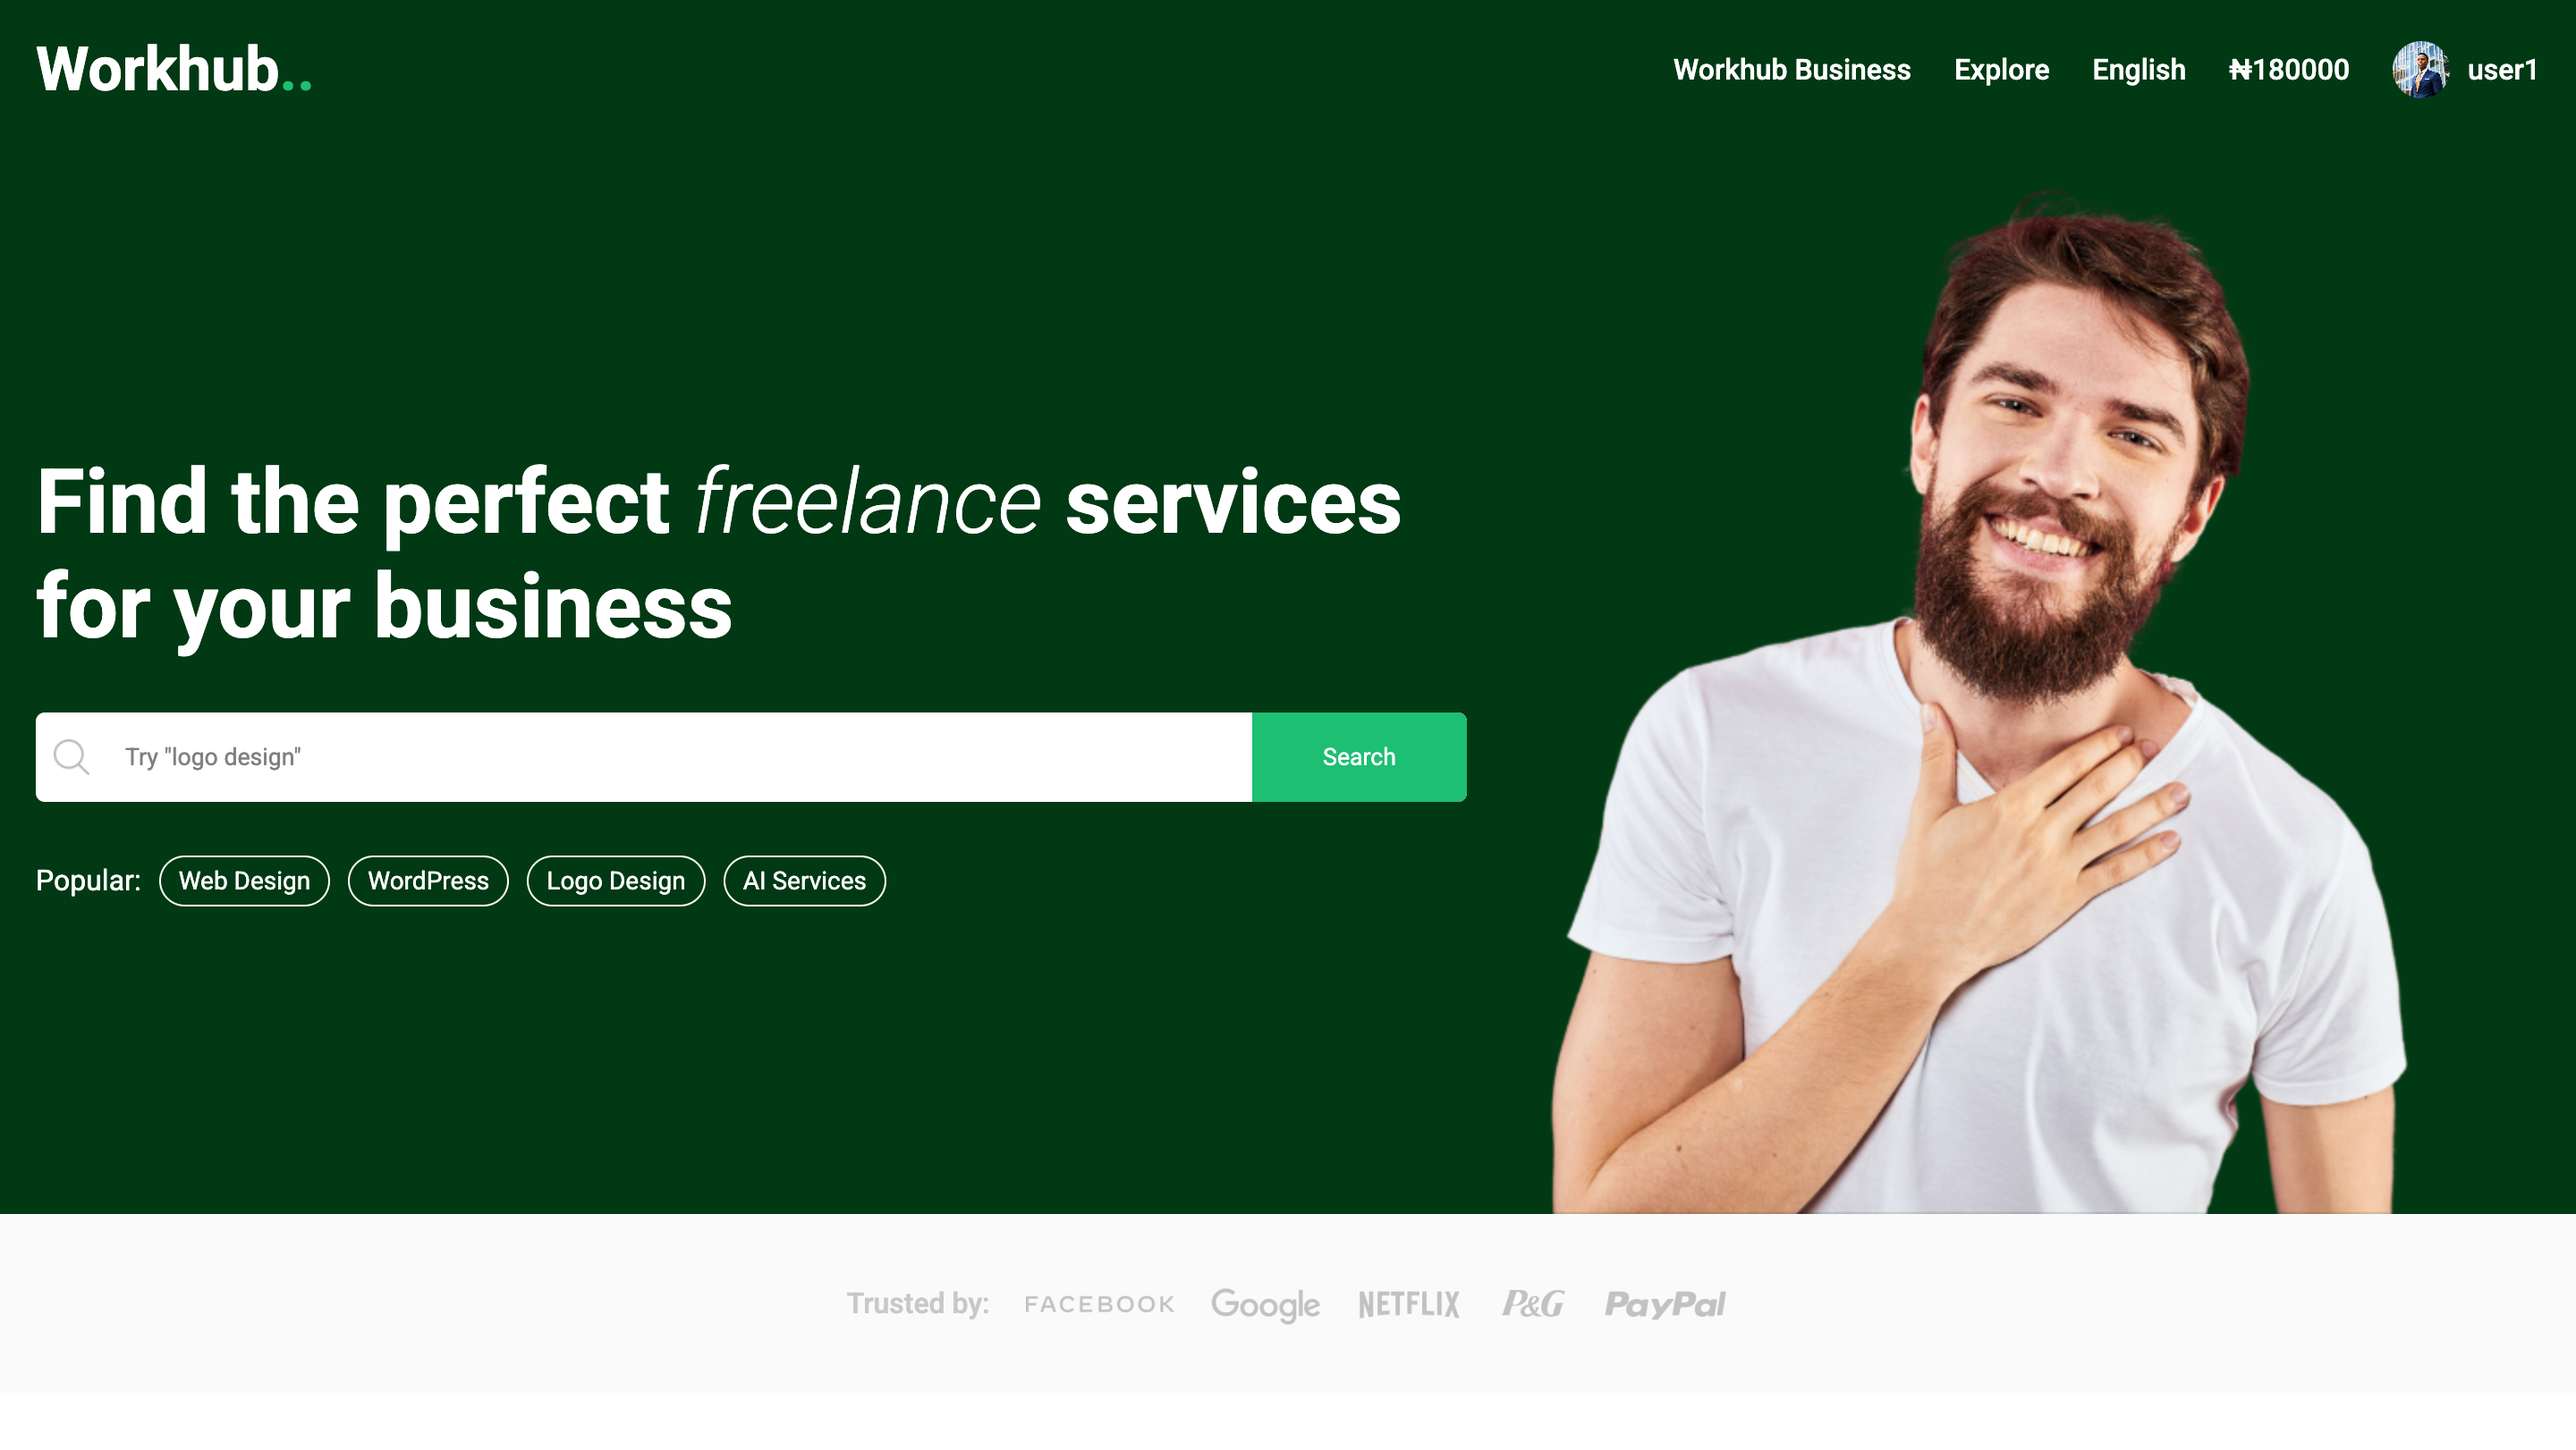
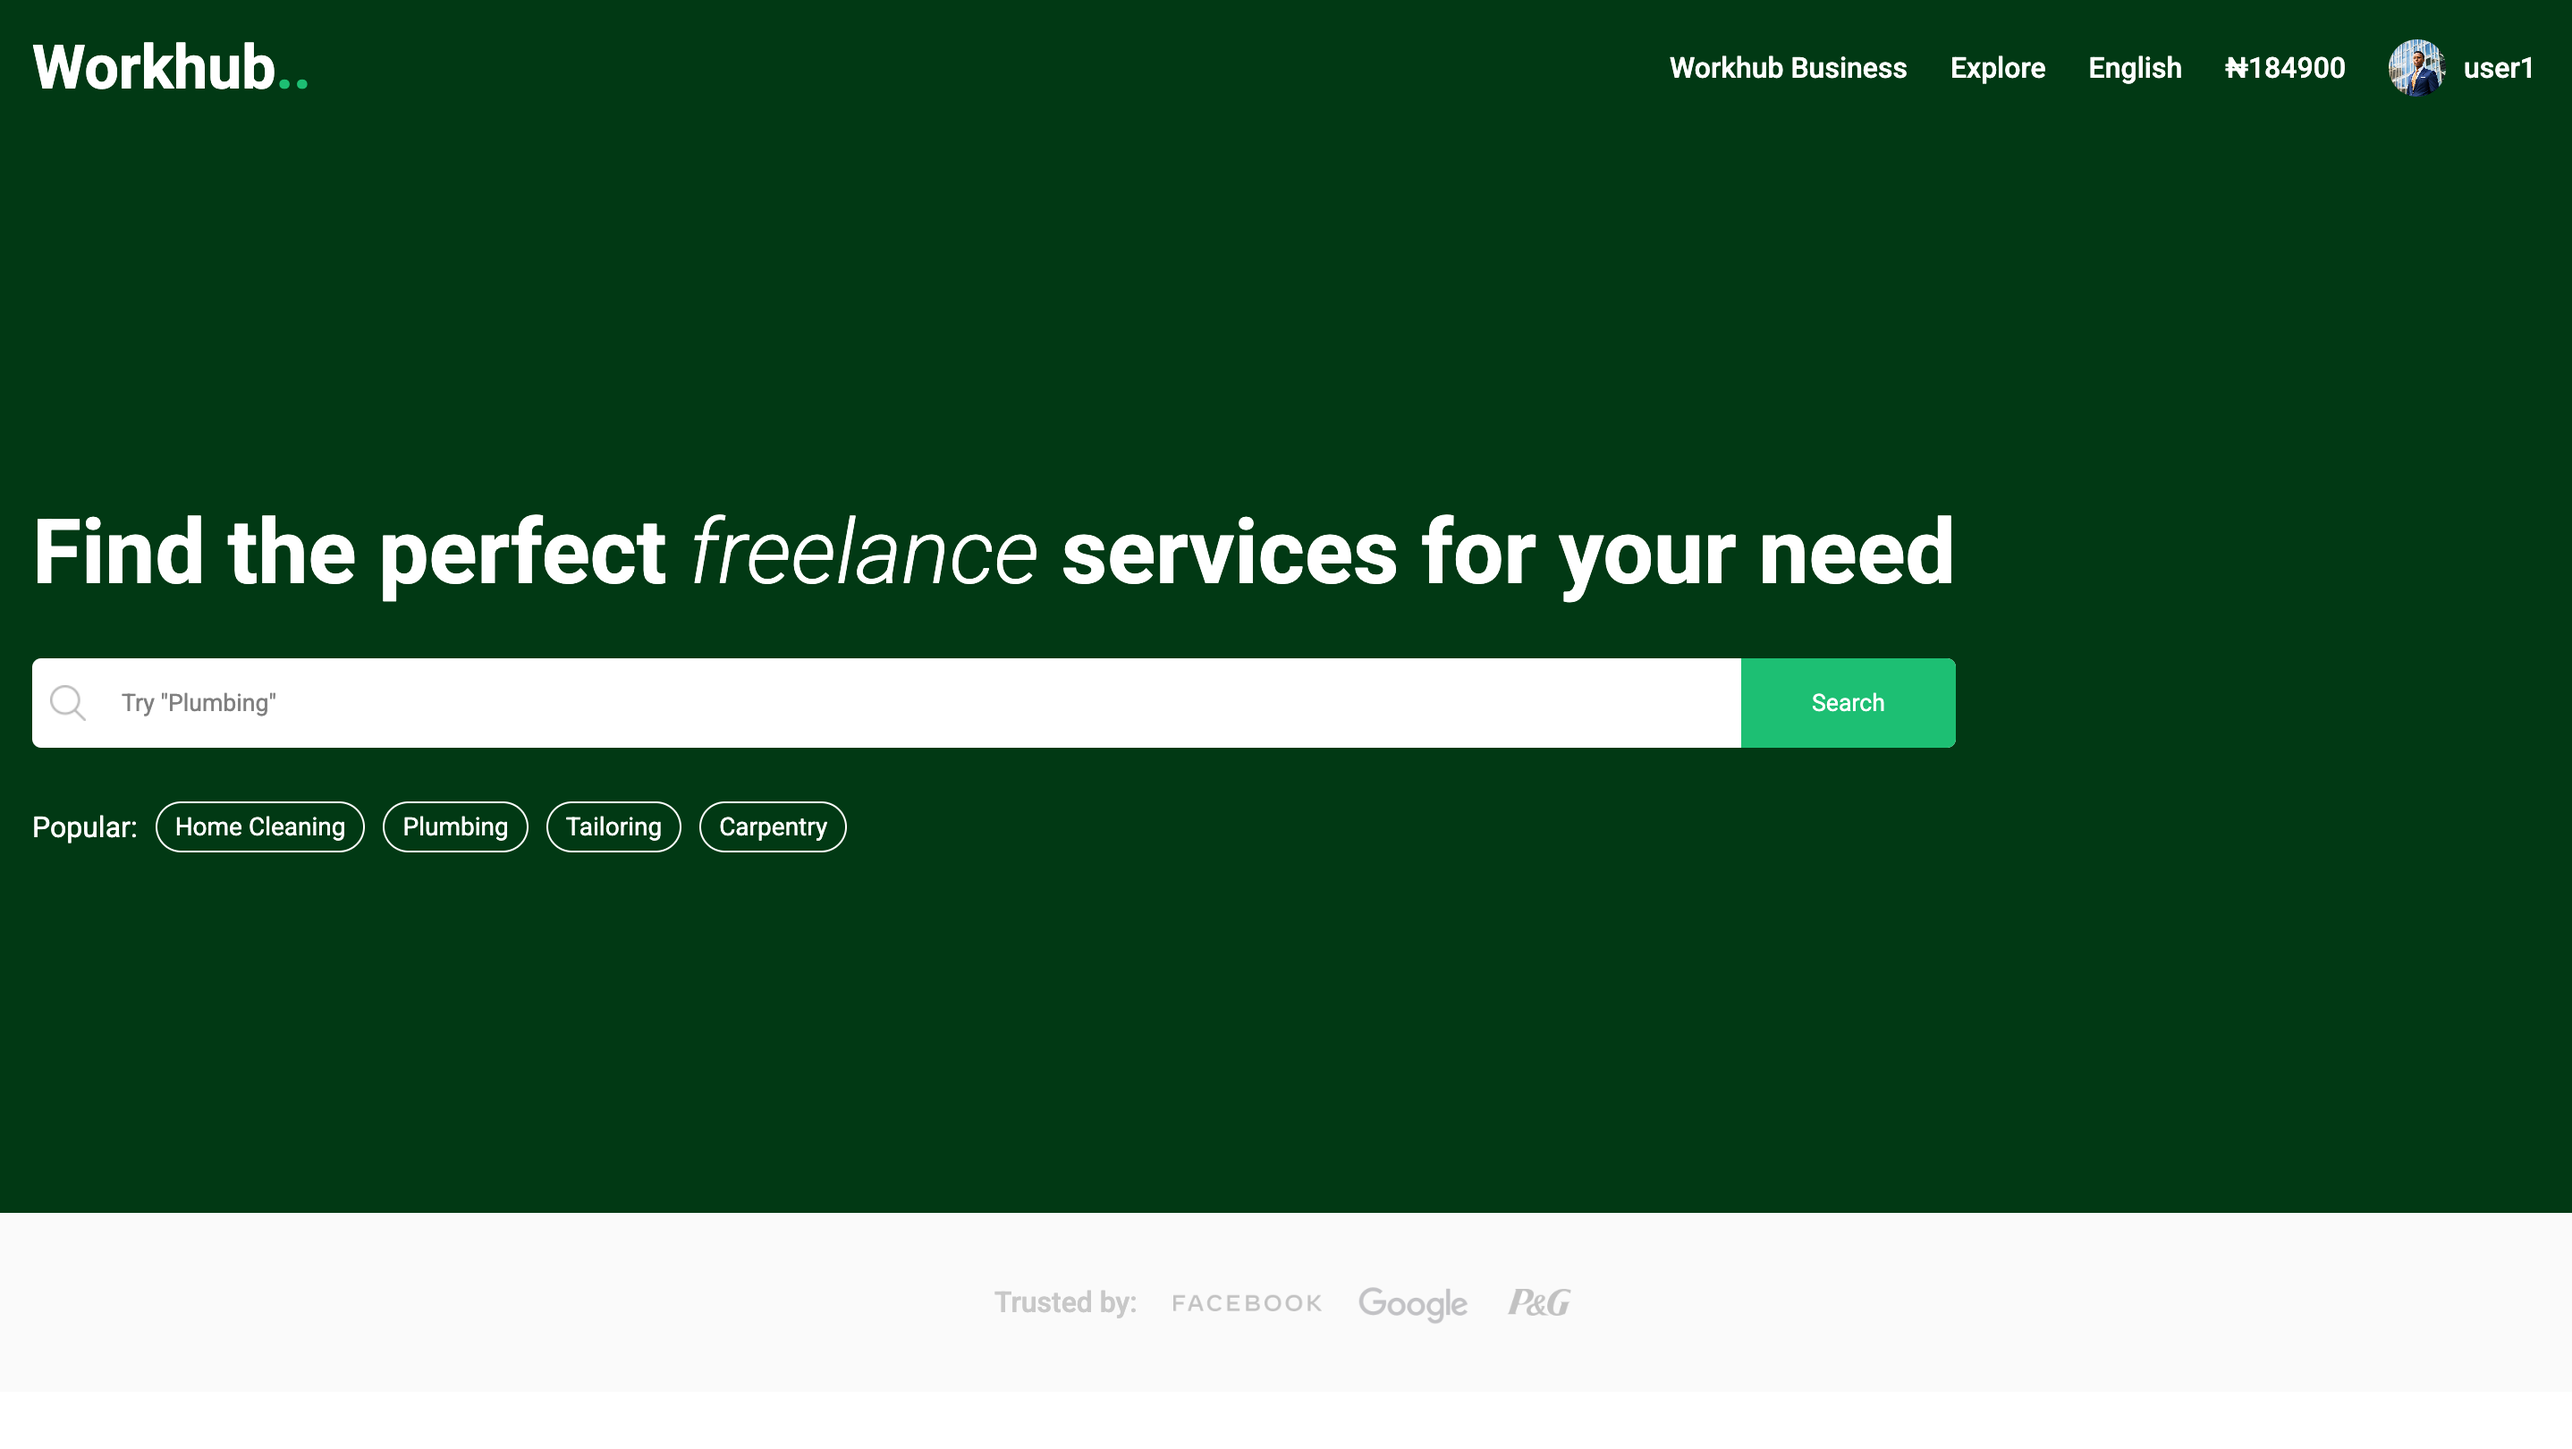
crypto brokerage added

diff --git a/src/constants/index.js b/src/constants/index.js
@@ -29,6 +29,7 @@ import {
   ecommerce,
   workhub,
   lipreadingAI,
+  calebAndBrown,
 } from "../assets";
 
 import testimony1 from "../assets/testimonies/John-Ogba-Ifeakanwa.jpg";
@@ -65,11 +66,11 @@ const services = [
     icon: mobile,
   },
   {
-    title: "AI Engineer",
+    title: "Backend Developer",
     icon: backend,
   },
   {
-    title: "Fullstack Developer",
+    title: "AI Engineer",
     icon: creator,
   },
 ];
@@ -335,41 +336,63 @@ const projects = [
   //   source_code_link: "https://github.com/Iamfavur/Ecommerce",
   //   link_to_site: "https://iamfavur.github.io/Ecommerce/",
   // },
+  // {
+  //   name: "Lip Reading AI",
+  //   description:
+  //     "A deep learning project for visual speech recognition that predicts spoken text from video of a speaker's mouth (lip reading), using a neural network based on LipNet.",
+  //   tags: [
+  //     {
+  //       name: "TensorFlow",
+  //       color: "blue-text-gradient",
+  //     },
+  //     {
+  //       name: "Streamlit",
+  //       color: "green-text-gradient",
+  //     },
+  //     {
+  //       name: "OpenCV",
+  //       color: "pink-text-gradient",
+  //     },
+  //     {
+  //       name: "matplotlib",
+  //       color: "green-text-gradient",
+  //     },
+  //     {
+  //       name: "imageio",
+  //       color: "orange-text-gradient",
+  //     },
+  //     {
+  //       name: "Pillow",
+  //       color: "pink-text-gradient",
+  //     },
+  //   ],
+  //   image: lipreadingAI,
+  //   source_code_link: "https://github.com/Iamfavur/lip-reading-AI",
+  //   link_to_site: "#",
+  // },
   {
-    name: "Lip Reading AI",
+    name: "Caleb and Brown",
     description:
-      "A deep learning project for visual speech recognition that predicts spoken text from video of a speaker's mouth (lip reading), using a neural network based on LipNet.",
+      "A web application that allows users to buy and sell cryptocurrencies, view their portfolio, and track market trends. It features a user-friendly interface, real-time data updates, and secure transactions.",
     tags: [
       {
-        name: "TensorFlow",
+        name: "React",
         color: "blue-text-gradient",
       },
       {
-        name: "Streamlit",
+        name: "web3.js",
         color: "green-text-gradient",
       },
       {
-        name: "OpenCV",
+        name: "Solidity",
         color: "pink-text-gradient",
-      },
-      {
-        name: "matplotlib",
-        color: "green-text-gradient",
-      },
-      {
-        name: "imageio",
-        color: "orange-text-gradient",
-      },
-      {
-        name: "Pillow",
-        color: "pink-text-gradient",
-      },
+      }
     ],
-    image: lipreadingAI,
-    source_code_link: "https://github.com/Iamfavur/lip-reading-AI",
-    link_to_site: "#",
+    image: calebAndBrown,
+    source_code_link: "#",
+    link_to_site: "https://calebandbrown.com/",
   },
-  
-];
 
+];
+// i had to comment out a project because from 5 projects and above, the work section was not displaying at all on mobile screens. I will try to fix this issue later on.
 export { services, technologies, experiences, testimonials, projects };

diff --git a/src/assets/index.js b/src/assets/index.js
@@ -35,6 +35,8 @@ import filmspot from "./Projects-done-images/filmspot.png";
 import ecommerce from "./Projects-done-images/e-commerce.png";
 import workhub from "./Projects-done-images/workhub.png";
 import lipreadingAI from "./Projects-done-images/lipreadingAI.jpg";
+import calebAndBrown from "./Projects-done-images/calebAndBrown.png";
+
 
 export {
   logo,
@@ -70,4 +72,5 @@ export {
   ecommerce,
   workhub,
   lipreadingAI,
+  calebAndBrown
 };
